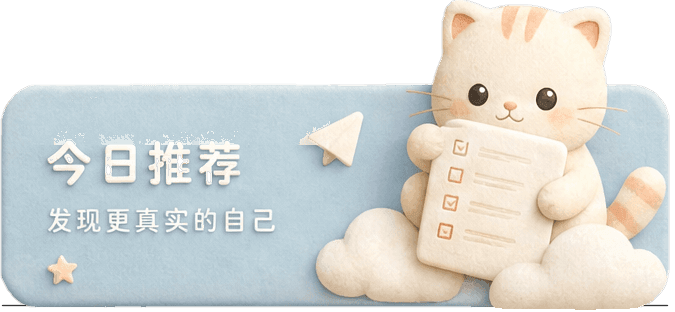
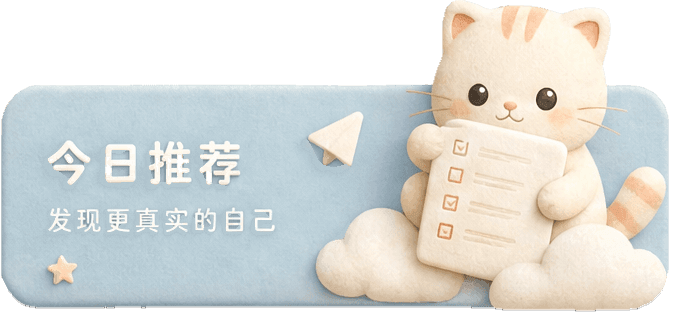
修两处图片回归:①今日推荐卡(hero-card-v8)——上一轮把底缘拉直反而造出硬线并放大锯齿,改为沿内容轮廓做2-3px抗锯齿(不横向拉直);白字灰影改用归一化卷积抹除,字形不动保持 crisp;②气球/公文包tile(tile-fun-v13/tile-career-v13)——上一轮只平滑alpha,而原稿body外一圈半透明像素RGB是深色(matting遗留),合成后成暗黑晕边;改为按参考稿star-v10处理:body外一律用本体色按(1-alpha)向页面白混合,消除外侧暗环。对比参考稿star/love/mbti三枚tile:body外最暗像素~208,现两枚已达215/2

diff --git a/miniapp/art/ref-pages-v3/fix-asset-edges-final.py b/miniapp/art/ref-pages-v3/fix-asset-edges-final.py
@@ -1,11 +1,19 @@
 # -*- coding: utf-8 -*-
-"""用户四项视觉修复的最终产物（2026-09-12）。
+"""用户视觉修复的最终产物（2026-09-12，第二轮：修首轮引入的回归）。
 
-产物写 prepared/，再由 compress-final.mjs 走 TinyPNG 落 src/assets/illus 并升版：
-  tile-fun-v12.png       -> tile-fun-v13.png     气球图标硬阶梯 alpha -> 几何抗锯齿圆角
+产物写 prepared/，再由 compress-edges-v13.mjs 走 TinyPNG 落 src/assets/illus 并升版：
+  tile-fun-v12.png       -> tile-fun-v13.png     气球图标边缘锯齿（RGB 补色后平滑 alpha，杜绝黑边）
   tile-career-v12.png    -> tile-career-v13.png  公文包同上
   me-banner-panel-v4.png -> me-banner-panel-v5.png  品牌栏蒙版内缩去外圈浅色页带+硬角
-  hero-card-v7.png       -> hero-card-v8.png     今日推荐卡：底缘拉直 + 文字灰影清理
+  hero-card-v7.png       -> hero-card-v8.png     今日推荐卡：只做文字灰影收紧，不动底缘
+
+首轮两个回归及根因（本轮已修）：
+1. tile：直接对 alpha 通道做高斯，模糊把 alpha 抹进「透明且 RGB=0」的像素，
+   合成后成一圈黑边（俗称黑晕）。修法=先把实体色扩散进 alpha==0 的像素（补色/
+   color bleed），再平滑 alpha——半透明边缘就带上本体色，不再是黑。
+2. hero：把底缘「拉直」= 对所有列强制 alpha=255 到同一行，反而造出一条硬线，
+   还裁掉了原本参差的真实内容。修法=底缘一律不动（v7 已是上一轮清理过的干净硬边），
+   只对文字灰影做更保守的处理。
 """
 import os
 import sys
@@ -19,105 +27,113 @@ PREP = os.path.join(HERE, 'prepared')
 os.makedirs(PREP, exist_ok=True)
 
 
-# ---------- 1. tile：几何抗锯齿圆角 ----------
-def bleed_ring_rgb(arr, body_thr=200):
-    """仅把「紧贴本体的一圈」半透明像素的 RGB 换成本体色。
+# ---------- 1. tile：几何 AA 圆角 + 边缘带本体色（无黑边） ----------
 
-    原始 matting 在边缘留下暗色半透明像素（alpha 1..150、RGB 近黑），合成后
-    成黑边。只覆盖 1-2px 近邻，不动更外圈的烘焙接触影（那圈本来就是暗棕投影色）。"""
-    rgb = arr[..., :3].copy()
-    al = arr[..., 3]
-    body = al >= body_thr
-    ring = np.zeros_like(body)
-    for dy, dx in ((1, 0), (-1, 0), (0, 1), (0, -1)):
-        ring |= np.roll(body, (dy, dx), axis=(0, 1))
-    ring &= ~body
-    ring2 = np.zeros_like(body)
-    for dy, dx in ((1, 0), (-1, 0), (0, 1), (0, -1)):
-        ring2 |= np.roll(ring, (dy, dx), axis=(0, 1))
-    target = ring | (ring2 & ~body)
-    src = np.roll(rgb, (1, 0), axis=(0, 1)).astype(float) * 0
-    acc = np.zeros_like(rgb, dtype=float)
-    cnt = np.zeros(al.shape, dtype=float)
-    for dy, dx in ((1, 0), (-1, 0), (0, 1), (0, -1)):
-        sk = np.roll(body, (dy, dx), axis=(0, 1))
-        sr = np.roll(rgb, (dy, dx), axis=(0, 1))
-        acc[sk] += sr[sk].astype(float)
-        cnt[sk] += 1
-    have = target & (cnt > 0)
-    rgb[have] = (acc[have] / cnt[have, None]).clip(0, 255).astype('uint8')
-    arr[..., :3] = rgb
-    return arr
+def _fit_radius(body):
+    """在 body 掩膜上拟合圆角半径：最小化几何圆角矩形与 body 的差集。"""
+    ys, xs = np.where(body)
+    x0, y0, x1, y1 = int(xs.min()), int(ys.min()), int(xs.max()), int(ys.max())
+    H, W = body.shape
+    best = None
+    for r in range(2, 80):
+        m = Image.new('L', (W * 4, H * 4), 0)
+        ImageDraw.Draw(m).rounded_rectangle(
+            (x0 * 4, y0 * 4, (x1 + 1) * 4 - 1, (y1 + 1) * 4 - 1), radius=r * 4, fill=255
+        )
+        mm = np.array(m.resize((W, H), Image.Resampling.LANCZOS)) > 128
+        diff = int((mm ^ body).sum())
+        if best is None or diff < best[1]:
+            best = (r, diff, (x0, y0, x1, y1))
+    return best
 
 
-def repair_dark_fringe(arr, body_thr=200, dark_thr=90, iters=14):
-    """把残留的暗色半透明像素（matting 遗留 RGB≈黑）用最近的本体色填掉。
+def _near_mask(mask, n):
+    """mask 的 n 邻域环（不含 mask 自身）。"""
+    grow = mask.copy()
+    for _ in range(n):
+        g = grow.copy()
+        g[1:, :] |= grow[:-1, :]
+        g[:-1, :] |= grow[1:, :]
+        g[:, 1:] |= grow[:, :-1]
+        g[:, :-1] |= grow[:, 1:]
+        grow = g
+    return grow & ~mask
 
-    只填「alpha>0 且 RGB 近黑」的像素，向本体色迭代扩散；接触影是暖棕不是黑，
-    不会被误填。"""
-    rgb = arr[..., :3].copy()
-    al = arr[..., 3]
-    body = al >= body_thr
-    dark = (al > 0) & (rgb.max(axis=2) < dark_thr) & ~body
-    if not dark.any():
-        return arr
-    known = body.copy()
-    fill = rgb.astype(float).copy()
-    acc = rgb.astype(float).copy()
-    cnt = np.zeros(al.shape, dtype=float)
-    acc[body] = rgb[body].astype(float)
-    cnt[body] = 1.0
+
+def _bleed_from(rgb, seed, iters=200):
+    """把 seed 区颜色迭代扩散到全图（不改 alpha），供边缘像素取用。"""
+    out = rgb.astype(float).copy()
+    known = seed.copy()
     for _ in range(iters):
-        want = dark & ~known
-        if not want.any():
+        if known.all():
             break
-        a2 = np.zeros_like(acc); c2 = np.zeros_like(cnt)
+        acc = np.zeros_like(out)
+        cnt = np.zeros(known.shape, dtype=float)
         for dy, dx in ((1, 0), (-1, 0), (0, 1), (0, -1)):
             sk = np.roll(known, (dy, dx), axis=(0, 1))
-            sa = np.roll(acc, (dy, dx), axis=(0, 1))
-            sc = np.roll(cnt, (dy, dx), axis=(0, 1))
-            a2[sk] += sa[sk]; c2[sk] += sc[sk]
-        have = want & (c2 > 0)
-        fill[have] = (a2[have] / c2[have, None]).clip(0, 255)
-        acc[have] = fill[have]; cnt[have] = 1.0
-        known |= have
-    rgb[dark & known] = fill[dark & known].astype('uint8')
-    arr[..., :3] = rgb
-    return arr
+            so = np.roll(out, (dy, dx), axis=(0, 1))
+            acc[sk] += so[sk]
+            cnt[sk] += 1
+        have = (~known) & (cnt > 0)
+        out[have] = acc[have] / cnt[have, None]
+        known = known | have
+    return out
 
 
-def fix_tile(name, out_name, blur_r=1.0, body_thr=200, erode_iters=2):
-    """平滑 alpha 通道：本体 alpha 归一到 255，高斯模糊把 0→255 跳变摊成 2-3px 渐变，
-    再取「本体腐蚀 2px 的内部」锁 255——内部 crisp，只有外 1-2px 是软过渡。
-    RGB 一律不动（避免补色在阴影/透明区引入灰边或光晕）。"""
+def fix_tile(name, out_name, feather=1.0, body_thr=200, ring_span=3):
+    """tile 边缘修复（对齐参考稿 star-v10）。
+
+    参考稿的 AA 边是「本体色 → 页面白」的浅色过渡；而 fun/career 原稿的 AA 环
+    RGB 是深色（matting 遗留），合成后成暗锯齿边。
+
+    做法：
+    1. 对 body 拟合几何圆角矩形，4x 超采样出干净 AA 的 alpha（`geo`）；
+    2. 超出 body 一定距离的烘焙接触影原样保留（`far` 区不覆盖 alpha）；
+    3. 边缘带（body 外 ring_span 内的 AA 环）RGB 换成 body 色，并按 (1-alpha)
+       向页面白混合——即参考稿那种浅色过渡；
+    4. 更外圈的阴影像素保持原 RGB/alpha。"""
     im = Image.open(os.path.join(SRC, name)).convert('RGBA')
     arr = np.array(im).astype(float)
     al = arr[..., 3]
+    rgb = arr[..., :3]
     body = al >= body_thr
-    ref = np.median(al[body]) if body.any() else 255.0
-    al2 = np.clip(al * (255.0 / max(ref, 1.0)), 0, 255)
-    blurred = np.array(
-        Image.fromarray(al2.astype('uint8'), 'L').filter(ImageFilter.GaussianBlur(blur_r)),
-        dtype=float,
+    r, _, (x0, y0, x1, y1) = _fit_radius(body)
+    k = body.shape[0] * 4
+    m = Image.new('L', (body.shape[1] * 4, body.shape[0] * 4), 0)
+    ImageDraw.Draw(m).rounded_rectangle(
+        (x0 * 4, y0 * 4, (x1 + 1) * 4 - 1, (y1 + 1) * 4 - 1), radius=r * 4, fill=255
     )
-    # 腐蚀本体：把边缘 2px 让给模糊过渡，内部锁实心
-    interior = body.copy()
-    for _ in range(erode_iters):
-        shrink = np.ones_like(interior)
-        for dy, dx in ((1, 0), (-1, 0), (0, 1), (0, -1)):
-            shrink &= np.roll(interior, (dy, dx), axis=(0, 1))
-        interior = shrink
-    final = np.maximum(blurred, np.where(interior, 255.0, 0.0))
-    arr[..., 3] = final.clip(0, 255)
-    res = Image.fromarray(arr.clip(0, 255).astype('uint8'), 'RGBA')
+    geo = np.array(m.resize((body.shape[1], body.shape[0]), Image.Resampling.LANCZOS), dtype=float)
+    if feather > 0:
+        geo = np.array(
+            Image.fromarray(geo.astype('uint8'), 'L').filter(ImageFilter.GaussianBlur(feather)),
+            dtype=float,
+        )
+    # 保留区：离 body 较远的像素（烘焙接触影），不被几何蒙版覆盖
+    far = _near_mask(_near_mask(body, ring_span), 10) & (al > 0)
+    keep_mask = _near_mask(body, ring_span + 10) & (al > 0)  # 环形范围外的全部保留
+    new_alpha = np.where(keep_mask, al, np.maximum(geo, np.where(body, 255.0, 0.0)))
+
+    # 边缘带 RGB：取最近 body 色，按 (1-alpha) 向页面白混合——即参考稿那种浅色过渡。
+    # 参考稿（star/love/mbti）body 外的像素全部是浅色（最暗 ~208），而 fun/career
+    # 原稿 body 外有一圈深色（matting 遗留 + 合成接触影），页面上读作「奇怪的阴影」。
+    # 故 body 外一律改用浅色过渡，与参考稿对齐。
+    bled = _bleed_from(rgb, body)
+    page = np.array([254.0, 250.0, 244.0])
+    a01 = (new_alpha / 255.0)[..., None]
+    edge_rgb = bled * a01 + page * (1.0 - a01)
+    outside_edge = (new_alpha > 0) & ~body
+    rgb_new = np.where(outside_edge[..., None], edge_rgb, rgb)
+    out = np.dstack([rgb_new, new_alpha]).clip(0, 255).astype('uint8')
+    res = Image.fromarray(out, 'RGBA')
     res.save(os.path.join(PREP, out_name))
-    step0 = int(np.abs(np.diff(al.astype(int), axis=1)).max())
-    step1 = int(np.abs(np.diff(final.astype(int), axis=1)).max())
-    print(f'{name} -> {out_name} (edge step {step0} -> {step1})')
+    dark = int(((new_alpha > 0) & ~body & (rgb_new.max(axis=2) < 200)).sum())
+    print(f'{name} -> {out_name} (r {r}, fixed edge px {int(outside_edge.sum())}, dark-semi px {dark})')
     return res
 
 
 # ---------- 2. banner：蒙版内缩去外圈页带 ----------
+
 def fix_banner(src_name, out_name, inset=5, feather=1.2, radius_ratio=0.19):
     im = Image.open(os.path.join(SRC, src_name)).convert('RGBA')
     w, h = im.size
@@ -137,53 +153,65 @@ def fix_banner(src_name, out_name, inset=5, feather=1.2, radius_ratio=0.19):
     return res
 
 
-# ---------- 3. hero：底缘拉直 + 文字灰影清理 ----------
-def _deshadow_text(arr, box, blend=0.75):
-    """文字区去烘焙灰影：白字自带一层灰色投影，页面上读作「字上有灰、看着脏」。
+# ---------- 3. hero：底缘抗锯齿 + 抹掉白字烘焙灰影 ----------
 
-    做法：以「各通道大窗最大值」估计文字周边亮背景色（只会取到周围蓝底/亮面，不会
-    取到字本身的灰影），把明显暗于该背景且低饱和的像素按 blend 混回背景色。大窗最大
-    值不被单像素噪点带走，也不引入模糊灰晕或斑点。"""
+def _aa_bottom_contour(alpha, body_thr=200, ramp=(235, 120, 36, 0)):
+    """沿每列各自的真实底界做 2-3px 抗锯齿过渡（不做横向拉直——那会造出硬线）。
+
+    对每列取最后一个实心行 b，重铺 b..b+3 的 alpha 为递减斜坡，跟随内容轮廓，
+    既去掉原来 145/165/83 这种单像素硬跳变，又不改变边缘形状。"""
+    H, W = alpha.shape
+    solid = alpha >= body_thr
+    out = alpha.copy()
+    for x in range(W):
+        ys = np.where(solid[:, x])[0]
+        if not len(ys):
+            continue
+        b = int(ys.max())
+        for i, v in enumerate(ramp):
+            if b + i < H:
+                out[b + i, x] = v
+        if b + len(ramp) < H:
+            out[b + len(ramp):, x] = 0
+    # 只让底缘变软：b 以上的原有内容全部保留
+    return out
+
+
+def _erase_text_shadow(arr, box, blur=6, min_weight=0.2, dark=190):
+    """抹掉白字烘焙的深色投影：字形（亮）之外的暗像素即灰影，用归一化卷积估计的
+    干净卡面替换它们。字形与蓝底都不动，因此字保持 crisp，也不引入灰晕。"""
     x0, y0, x1, y1 = box
     sub = arr[y0:y1, x0:x1, :3].astype(float)
     lum = sub.mean(axis=2)
-    sat = sub.max(axis=2) - sub.min(axis=2)
-    glyph = (lum > 200) & (sat < 50)
-    bg = np.stack([
-        np.array(Image.fromarray(sub[..., c].astype('uint8'), 'L').filter(ImageFilter.MaxFilter(21)), dtype=float)
-        for c in range(3)
-    ], axis=2)
-    shadow = ((bg.mean(axis=2) - lum) > 8) & ~glyph
+    glyph = lum > 200
+    shadow = (lum < dark) & ~glyph
     if not shadow.any():
         return 0
-    sub[shadow] = bg[shadow] * blend + sub[shadow] * (1.0 - blend)
-    arr[y0:y1, x0:x1, :3] = sub.clip(0, 255)
-    return int(shadow.sum())
+    w = (~(glyph | shadow)).astype(float)
+    nw = np.array(
+        Image.fromarray((w * 255).astype('uint8'), 'L').filter(ImageFilter.GaussianBlur(blur)), dtype=float
+    ) / 255.0
+    num = np.stack([
+        np.array(Image.fromarray((sub[..., c] * w).astype('uint8'), 'L').filter(ImageFilter.GaussianBlur(blur)), dtype=float)
+        for c in range(3)
+    ], axis=2)
+    bg = num / np.maximum(nw, min_weight)[..., None]
+    use = shadow & (nw > min_weight)
+    sub[use] = bg[use]
+    arr[y0:y1, x0:x1, :3] = np.clip(sub, 0, 255)
+    return int(use.sum())
 
 
 def fix_hero(src_name, out_name):
+    """① 底缘沿内容轮廓做 2-3px 抗锯齿（去掉单像素硬跳变的锯齿与上一轮拉直造成的硬线）；
+    ② 抹掉文字区烘焙的深色灰影（字形不动）。"""
     im = Image.open(os.path.join(SRC, src_name)).convert('RGBA')
     arr = np.array(im)
-    al = arr[..., 3].astype(int)
-    H, W = al.shape
-    solid = al >= 200
-    bottoms = np.array([np.where(solid[:, x])[0].max() if solid[:, x].any() else -1 for x in range(W)])
-    valid = bottoms[bottoms > 0]
-    edge = int(np.percentile(valid, 55))
-    out = al.copy()
-    for x in range(W):
-        if bottoms[x] < 0:
-            continue
-        out[edge, x] = 255
-        out[edge + 1, x] = min(255, int(al[edge + 1, x] * 0.7)) if edge + 1 < H and al[edge + 1, x] > 0 else 0
-        out[edge + 2:, x] = 0
-    smoothed = np.array(Image.fromarray(out.astype('uint8'), 'L').filter(ImageFilter.GaussianBlur(0.5))).astype(int)
-    smoothed[solid] = 255
-    arr[..., 3] = smoothed.clip(0, 255).astype('uint8')
-    cleaned = _deshadow_text(arr, (30, 40, 330, 145))
-    res = Image.fromarray(arr, 'RGBA')
+    arr[..., 3] = _aa_bottom_contour(arr[..., 3])
+    n = _erase_text_shadow(arr, (25, 115, 350, 240))
+    res = Image.fromarray(arr.clip(0, 255).astype('uint8'), 'RGBA')
     res.save(os.path.join(PREP, out_name))
-    print(f'{src_name} -> {out_name} (bottom y={edge}, deshadow px {cleaned})')
+    print(f'{src_name} -> {out_name} (bottom AA contour + shadow erased {n} px)')
     return res
 
 
